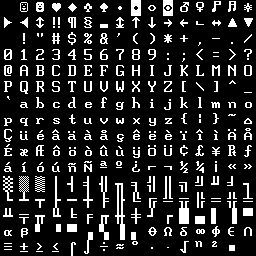
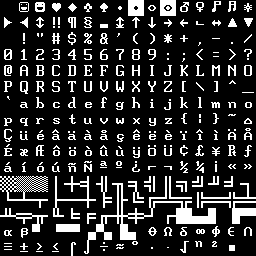
Doing a confusingly asinine stylised tileset

diff --git a/engine.py b/engine.py
@@ -24,7 +24,7 @@ def main():
     # Init root console and player
     player=Entity(0, 0, 'Ratiel Snailface the Enchanter', Factions.ALLY, '@', tcod.brass, 5, 1, 0, RenderOrder.ACTOR, False, Inventory(26), None, None, None)
     entities=[player]
-    tcod.console_set_custom_font('gfx/fonts/edited_terminal16x16_gs_ro.png', tcod.FONT_TYPE_GREYSCALE | tcod.FONT_LAYOUT_ASCII_INROW)
+    tcod.console_set_custom_font('gfx/fonts/terminal16x16_gs_ro.png', tcod.FONT_TYPE_GREYSCALE | tcod.tcod.FONT_LAYOUT_CP437)
     root_console=tcod.console_init_root(terminal_width, terminal_height, 'Dance of the Pythons', False, tcod.RENDERER_SDL2, 'C', False)
     display=tcod.console.Console(terminal_width, terminal_height, 'C') 
     #interface=tcod.console.Console(terminal_width, map_height, 'C')

diff --git a/map_objects/game_map.py b/map_objects/game_map.py
@@ -13,7 +13,7 @@ class GameMap:
         # Full of grass
         self.path_map.walkable[:]=True
         self.path_map.transparent[:]=True
-        self.graphics_map=numpy.full((height, width), Tile('•', (106, 190, 48), (57, 60, 50)))
+        self.graphics_map=numpy.full((height, width), Tile('.', (106, 190, 48), (57, 60, 50)))
         self.explored=numpy.full((height, width), False)
         origin_x=3
         dest_x=generator.cave_y(origin_x, 0, 21, Tile('•', (138, 111, 48), (82, 75, 36)), 60, 60, 1, 1, self)
